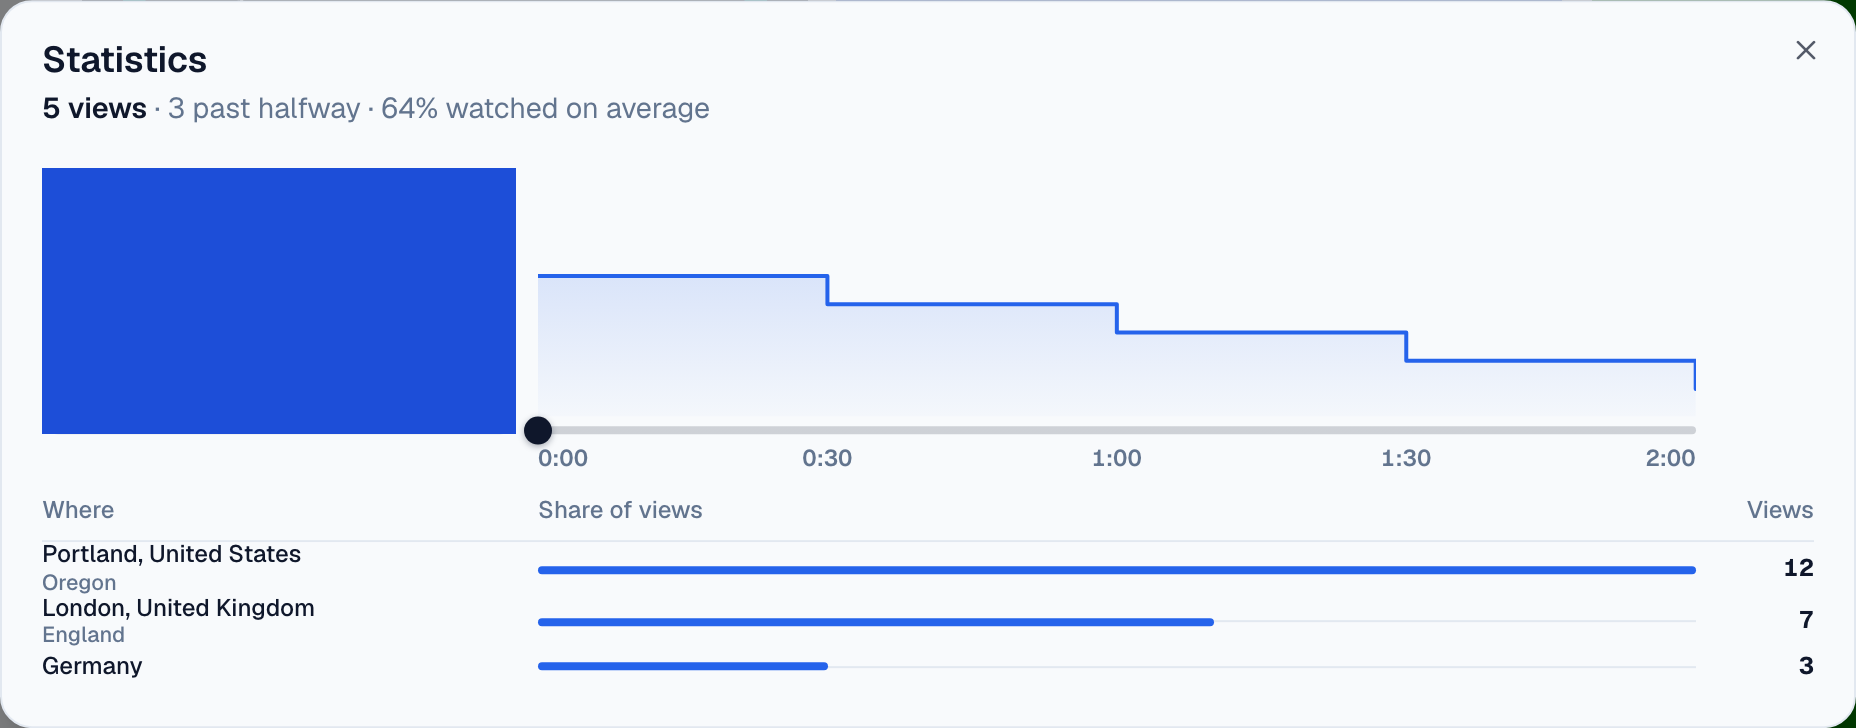
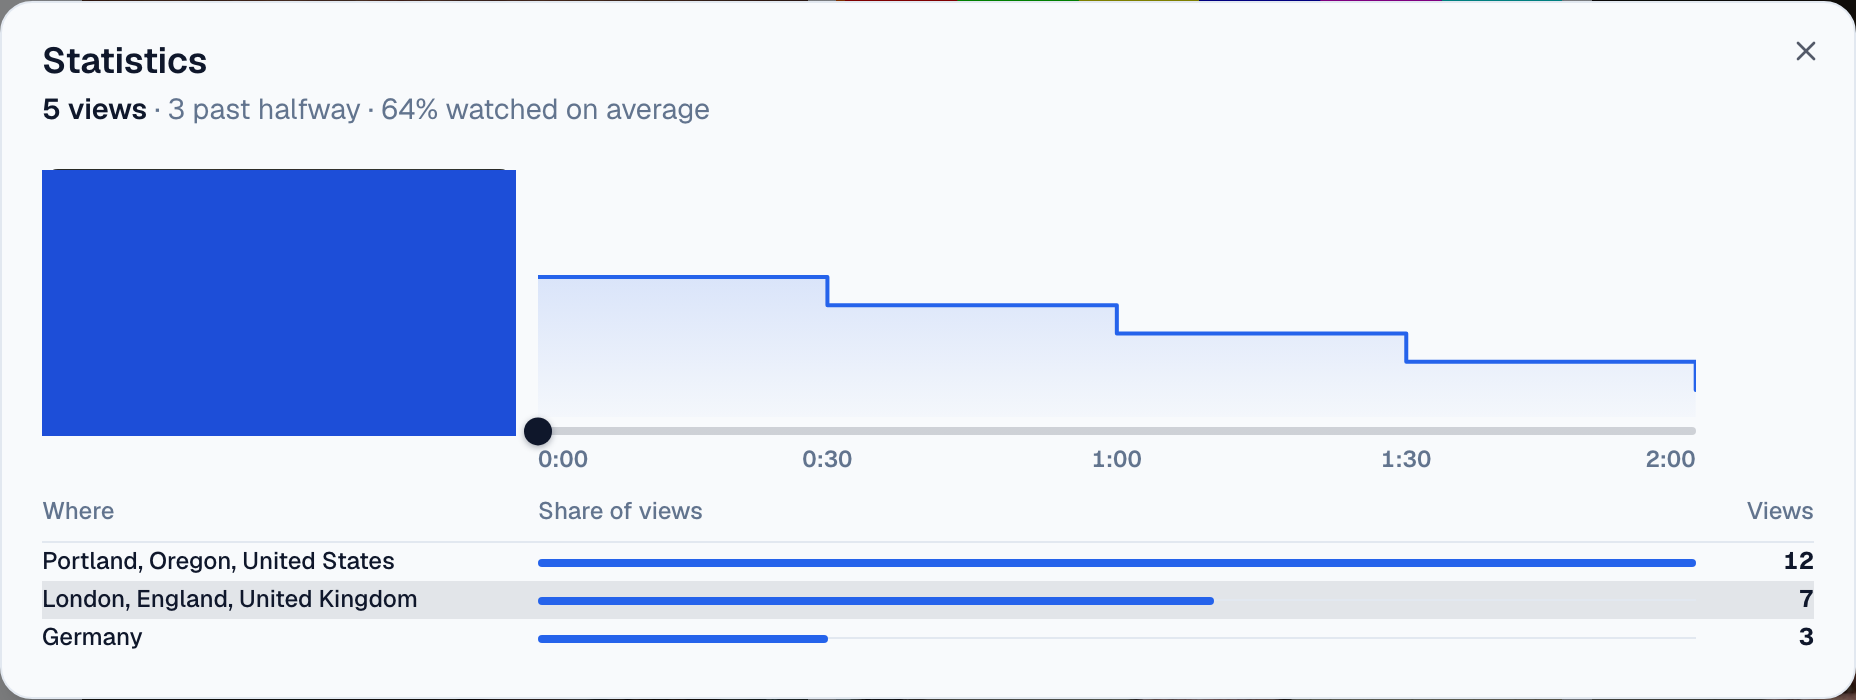
Publish video-stats-city-country (20260914T203619Z)

diff --git a/index.html b/index.html
@@ -1,6 +1,7 @@
 <!doctype html><meta charset="utf-8"><title>Clarity design previews</title>
 <style>body{font-family:system-ui,sans-serif;max-width:40rem;margin:4rem auto;padding:0 1rem;color:#0f172a}a{color:#2563eb}li{margin:.4rem 0}</style>
 <h1>Clarity design previews</h1>
+<li><a href="./video-stats-city-country/">Video stats: location shows city and country (before/after)</a> <small>20260914T203619Z</small></li>
 <li><a href="./video-stats-city-country/">Video stats: location shows city and country (before/after)</a> <small>20260914T202149Z</small></li>
 <li><a href="./speed-pill-7a-evidence/">Button batch 2: real-app before and after</a> <small>20260914T200646Z</small></li>
 <li><a href="./phoenix-parallel-work-2026-09-14/">Clarity: which legacy cleanup to do alongside current PRs</a> <small>20260914T195139Z</small></li>
